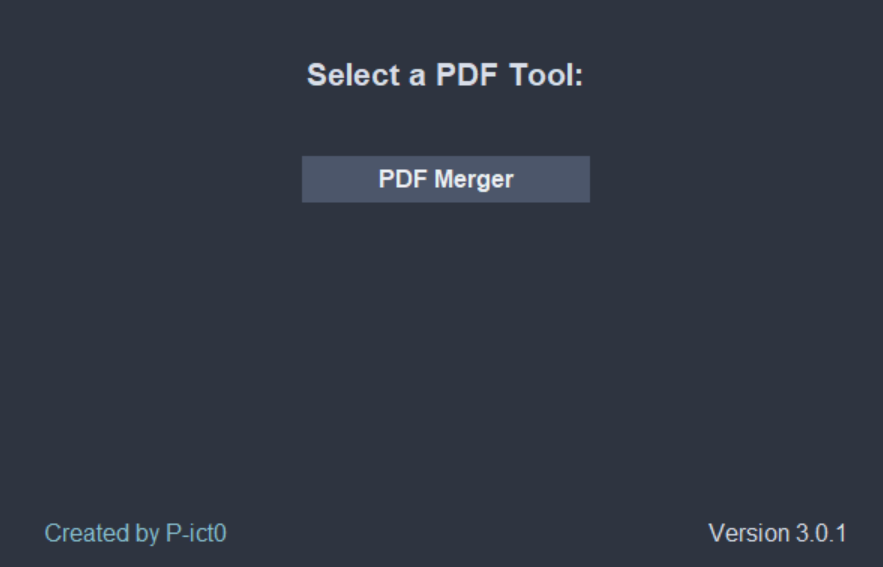
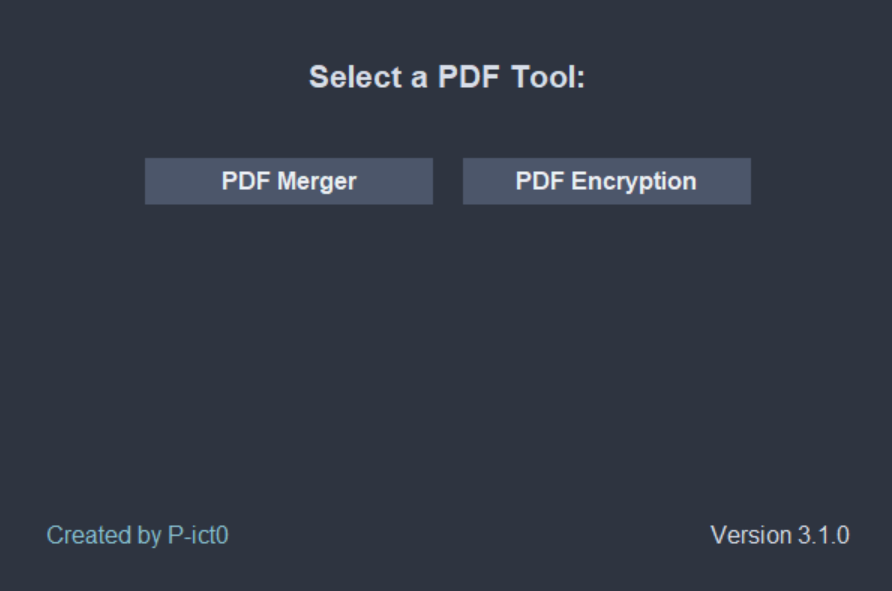
(Docs) Add encryptor docs

diff --git a/README.md b/README.md
@@ -5,6 +5,9 @@
 - [📖 Description](#-description)
 - [🚀 Quick Start](#-quick-start)
 - [🖼 Screenshots](#-screenshots)
+   - [App](#app)
+   - [Merger](#merger)
+   - [Encryptor](#encryptor)
 - [✨ Features](#-features)
 - [📦 Installation](#-installation)
 - [💻 Development](#-development)
@@ -28,11 +31,15 @@ Download the latest release from the [**releases**](https://github.com/P-ict0/pd
 ## Merger
 ![Merge PDF Demo](./media/merger.png)
 
+## Encryptor
+![Encrypt PDF Demo](./media/encryptor.png)
+
 # ✨ Features
 
 Right now, the app supports the following features:
 
 - **PDF Merger**: Merge multiple PDF files into a single PDF file.
+- **PDF Encryptor**: Encrypt a PDF file with a password.
 
 # 📦 Installation
 
